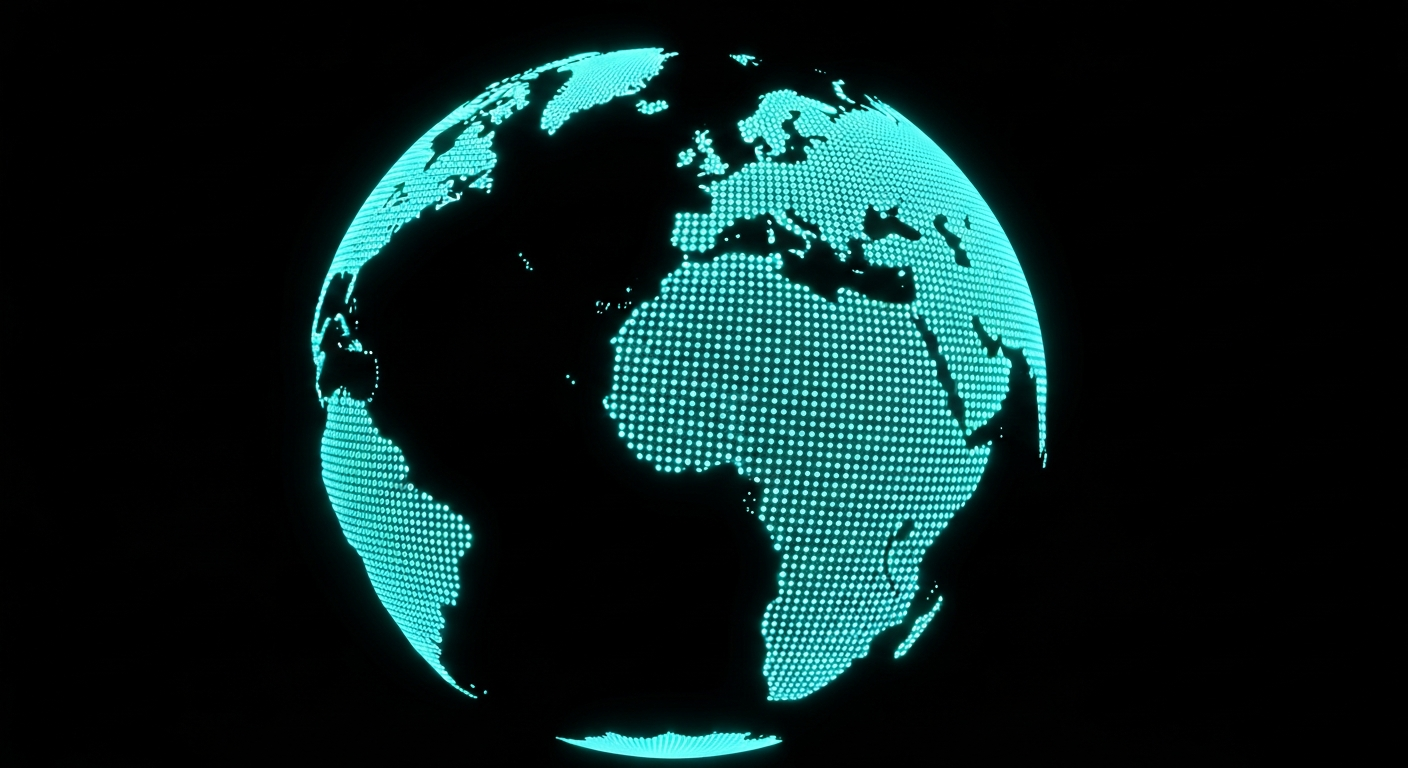
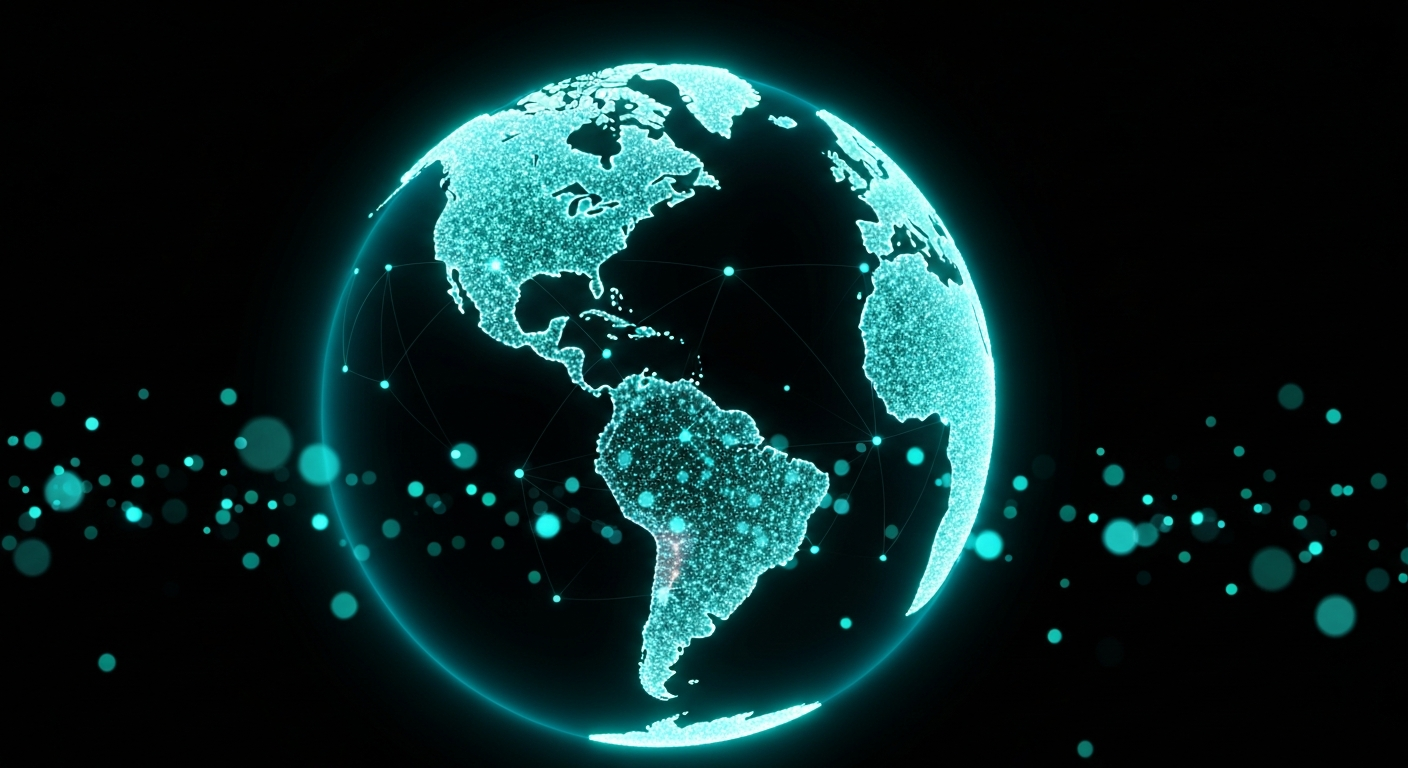
Signal beat 8: replace dotted-globe with particle-cloud + [ATLANTA_] pin
Match the official Orchestrate 2026 brand video frame: cyan particle-cloud globe (not solid dot matrix), wireframe network across continents, foreground bokeh, lime green geo-pin and bracket UI overlay locking onto Atlanta as the host city.

8A particle globe forms (re-rendered)
8B [ATLANTA_] geo-pin lock-in (new — replaces 'Globe alive')
8C full network with wireframe (re-rendered)

diff --git a/index.html b/index.html
@@ -2881,27 +2881,27 @@
       <div class="vds-beat">
         <div class="vds-beat-head">
           <div class="vds-beat-num">08</div>
-          <div class="vds-beat-name">DOTTED GLOBE</div>
-          <div class="vds-beat-sub">A planet made of light.</div>
+          <div class="vds-beat-name">PLANET</div>
+          <div class="vds-beat-sub">A globe of particles. The host city locks in.</div>
         </div>
         <div class="vds-beat-frames">
           <div class="vds-frame">
             <div class="frame"><img src="signal/08a_globe_form.png" alt="" loading="lazy" onerror="this.parentNode.classList.add('pending');this.style.display='none'"></div>
             <div class="vds-num">08A</div>
-            <div class="vds-name">Globe forms</div>
-            <p>Dots assemble into a glowing globe. Continents in halftone.</p>
+            <div class="vds-name">Particle globe forms</div>
+            <p>Particles converge into a cyan-teal globe on black space. Continents emerge as denser clouds. Foreground bokeh.</p>
           </div>
           <div class="vds-frame">
-            <div class="frame"><img src="signal/08b_globe_lit.png" alt="" loading="lazy" onerror="this.parentNode.classList.add('pending');this.style.display='none'"></div>
+            <div class="frame"><img src="signal/08b_atlanta_pin.png" alt="" loading="lazy" onerror="this.parentNode.classList.add('pending');this.style.display='none'"></div>
             <div class="vds-num">08B</div>
-            <div class="vds-name">Globe alive</div>
-            <p>The globe pulses. Lines arc between cities. The grid lives.</p>
+            <div class="vds-name">[ATLANTA_]</div>
+            <p>Lime green geo-pin lands on the Southeast US. A bracketed label types in: <code>[ATLANTA_]</code>. Wireframe network spreads across the Americas.</p>
           </div>
           <div class="vds-frame">
             <div class="frame"><img src="signal/08c_globe_full.png" alt="" loading="lazy" onerror="this.parentNode.classList.add('pending');this.style.display='none'"></div>
             <div class="vds-num">08C</div>
             <div class="vds-name">Full network</div>
-            <p>Every continent connected. Cyan grid spanning the planet.</p>
+            <p>Wireframe lines spread across every continent on the particle globe. Cyan-teal grid alive, foreground particles drift past in bokeh.</p>
           </div>
         </div>
       </div>
@@ -3286,9 +3286,9 @@
     {id:"07A", beat:"07 — SCALE + PERSPECTIVE", title:"Micro detail", duration:"2s", img:"signal/07a_micro.png", desc:"Hyper-close: a few particles in shallow focus, gold glints.", camera:"Macro · shallow DoF"},
     {id:"07B", beat:"07 — SCALE + PERSPECTIVE", title:"Zoom out", duration:"2s", img:"signal/07b_zoom_out.png", desc:"Particles resolve into a vast network seen from above.", camera:"Pull-back"},
     {id:"07C", beat:"07 — SCALE + PERSPECTIVE", title:"Cosmic scale", duration:"2.5s", img:"signal/07c_cosmic.png", desc:"The network now planetary, edge of orbit visible.", camera:"Orbital wide"},
-    {id:"08A", beat:"08 — DOTTED GLOBE", title:"Globe forms", duration:"2s", img:"signal/08a_globe_form.png", desc:"Dots assemble into a glowing globe. Continents in halftone.", camera:"Wide · globe"},
-    {id:"08B", beat:"08 — DOTTED GLOBE", title:"Globe alive", duration:"2.5s", img:"signal/08b_globe_lit.png", desc:"The globe pulses. Lines arc between cities. The grid lives.", camera:"Wide · globe"},
-    {id:"08C", beat:"08 — DOTTED GLOBE", title:"Full network", duration:"2.5s", img:"signal/08c_globe_full.png", desc:"Every continent connected. Cyan grid spanning the planet.", camera:"Wide · globe full"},
+    {id:"08A", beat:"08 — PLANET", title:"Particle globe forms", duration:"2s", img:"signal/08a_globe_form.png", desc:"Particles converge into a cyan-teal globe on black space. Continents emerge as denser clouds. Foreground bokeh.", camera:"Wide · globe"},
+    {id:"08B", beat:"08 — PLANET", title:"[ATLANTA_]", duration:"2.5s", img:"signal/08b_atlanta_pin.png", desc:"Lime geo-pin lands on the Southeast US. Bracketed label types in: [ATLANTA_]. Wireframe network across the Americas.", camera:"Wide · brand UI overlay"},
+    {id:"08C", beat:"08 — PLANET", title:"Full network", duration:"2.5s", img:"signal/08c_globe_full.png", desc:"Wireframe lines spread across every continent on the particle globe. Cyan-teal grid alive, foreground particles in bokeh.", camera:"Wide · globe full"},
     {id:"09A", beat:"09 — ORCHESTRATE", title:"Wide hold", duration:"2.5s", img:"signal/09a_wide_hold.png", desc:"Earth from orbit, full active grid, atmospheric arc on the horizon.", camera:"Locked wide"},
     {id:"09B", beat:"09 — ORCHESTRATE", title:"Sunrise rays", duration:"2.5s", img:"signal/09b_sunrise.png", desc:"Signal Gold sunrise rays burst from the right edge.", camera:"Locked wide · gold"},
     {id:"09C", beat:"09 — ORCHESTRATE", title:"Brand hero hold", duration:"3s", img:"signal/09c_brand_hero.png", desc:"Locked wide hero hold. Black void, the planet alive, ready for the brand mark.", camera:"Final hold"}
